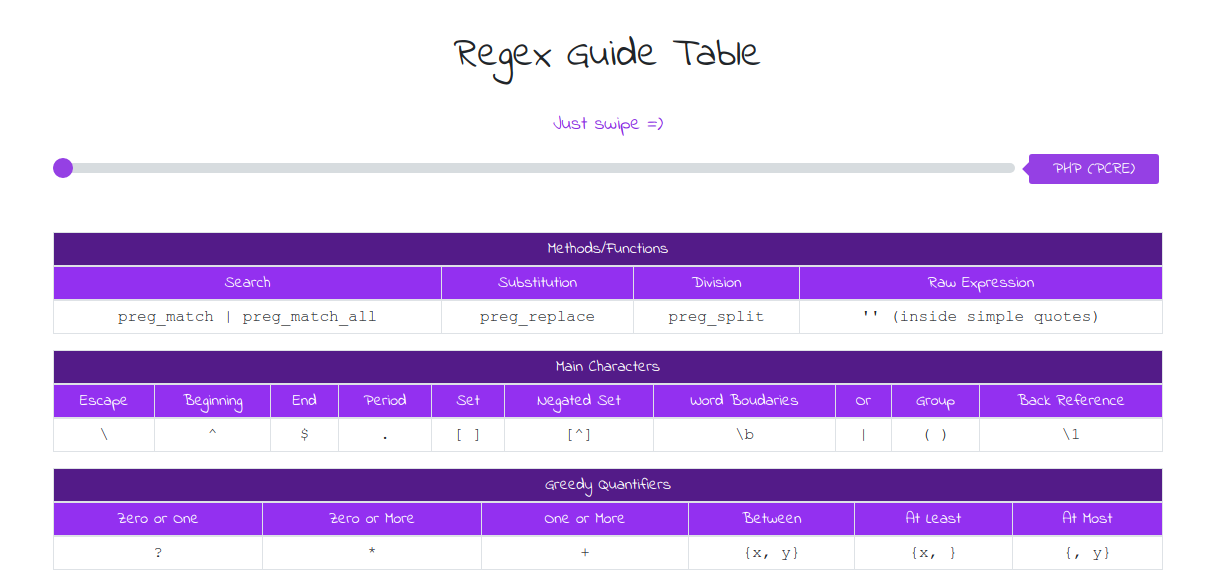
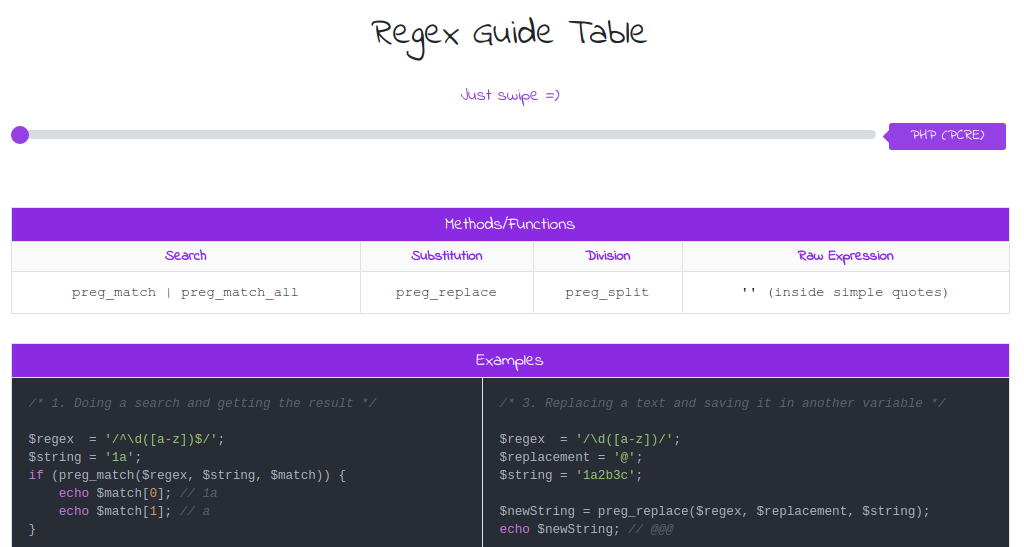
Add Examples

diff --git a/app/src/guide-table/assets/js/main.js b/app/src/guide-table/assets/js/main.js
@@ -3,59 +3,54 @@ const tableGreedy     = document.getElementById('table-greedy');
 const tableReluctant  = document.getElementById('table-reluctant');
 const tablePossessive = document.getElementById('table-possessive');
 const tableMethods    = document.getElementById('table-methods');
+const tableExamples   = document.getElementById('table-examples');
 
-const tables  = [tableMethods, tableMain, tableGreedy, tableReluctant, tablePossessive];
-
-const options = {
-    php: {
-        show: 'PHP (PCRE)',
-        main: ['\\', '^', '$', '.', '[ ]', '[^]', '\\b', '|', '( )', '\\1'],
-        greedy: ['?', '*', '+', '{x, y}', '{x, }', '{, y}'],
-        reluctant: ['??', '*?', '+?', '{x, y}?', '{x, }?', '{, y}?'],
-        possessive: ['?+', '*+', '++', '{x, y}+', '{x, }+', '{, y}+'],
-        methods: ['preg_match | preg_match_all', 'preg_replace', 'preg_split', '\'\' (inside simple quotes)', 'By Default'],
-    },
-    java: {
-        show: 'Java',
-        main: ['\\\\', '^', '$', '.', '[ ]', '[^]', '\\\\b', '|', '( )', '\\\\1'],
-        greedy: ['?', '*', '+', '{x, y}', '{x, }', '{, y}'],
-        reluctant: ['??', '*?', '+?', '{x, y}?', '{x, }?', '{, y}?'],
-        possessive: ['?+', '*+', '++', '{x, y}+', '{x, }+', '{, y}+'],
-        methods: ['Matcher.matches | Matcher.find', 'Matcher.replaceFirst | Matcher.replaceAll', 'Pattern.split', 'Doesn\'t have'],
-    },
-};
+const ajax = new Ajax('api/v1.php');
+ajax.success(function(response){
+    changeName(response);
+    changeTable(response);
+    slider.addEventListener('input', function() {
+        spanAnimator.zoom(1.2);
+        changeName(response);
+        changeTable(response);
+    });
+}).get('json');
 
 const slider       = document.getElementById('range-slider');
 const input        = slider.querySelector('input');
 const span         = slider.querySelector('span');
 const spanAnimator = new Animator(span, 300);
 
-changeName();
-changeTable();
-
-slider.addEventListener('input', function() {
-    spanAnimator.zoom(1.2);
-    changeName();
-    changeTable();
-});
-
-function changeName() {
+function changeName(options) {
     span.textContent = Object.values(options)[input.value - 1].show;
 }
 
-function changeTable() {
-    changeContentTable(tableMethods, 'methods');
-    changeContentTable(tableMain, 'main');
-    changeContentTable(tableGreedy, 'greedy');
-    changeContentTable(tableReluctant, 'reluctant');
-    changeContentTable(tablePossessive, 'possessive');
+function changeTable(options) {
+    changeContentTable(options, tableMethods, 'methods');
+    changeContentTable(options, tableExamples, 'examples');
+    changeContentTable(options, tableMain, 'main');
+    changeContentTable(options, tableGreedy, 'greedy');
+    changeContentTable(options, tableReluctant, 'reluctant');
+    changeContentTable(options, tablePossessive, 'possessive');
+    highlightCode();
 }
 
-function changeContentTable(table, propertyName) {
+function changeContentTable(options, table, propertyName) {
     fader = new Fader(0.5);
     table.style = '';
     fader.fade(table, 0, 100, true);
     table.querySelectorAll('td').forEach(function(td, i) {
-        td.textContent = Object.values(options)[input.value - 1][propertyName][i];
+        td.innerHTML = Object.values(options)[input.value - 1][propertyName][i];
+    });
+}
+
+setTimeout(function(){
+    highlightCode();
+}, 100);
+
+function highlightCode() {
+    document.querySelectorAll('code').forEach((block) => {
+        block.parentNode.parentNode.classList.add('code');
+        hljs.highlightBlock(block);
     });
 }

diff --git a/app/src/guide-table/assets/css/style.min.css b/app/src/guide-table/assets/css/style.min.css
@@ -1,1 +1,1 @@
-table{white-space:nowrap}table th{padding:.3rem!important}table thead{background-color:#8a2be2;color:#fff}table thead th{font-weight:400}table tbody{font-family:'Courier New',Courier,monospace!important}.t1{background-color:#531b88}.t2{background-color:#9330f0}.range-slider{margin:60px 0 0 0}.range-slider{width:100%}.range-slider__range{-moz-appearance:none;-webkit-appearance:none;appearance:none;width:calc(100% - (148px));height:10px;border-radius:5px;background:#d7dcdf;outline:0;padding:0;margin:0}.range-slider__range::-webkit-slider-thumb{-moz-appearance:none;-webkit-appearance:none;appearance:none;width:20px;height:20px;border-radius:50%;background:#9540e4;cursor:pointer;transition:background .15s ease-in-out}.range-slider__range::-webkit-slider-thumb:hover{background:#8a2be2}.range-slider__range:active::-webkit-slider-thumb{background:#8a2be2}.range-slider__range::-moz-range-thumb{width:20px;height:20px;border:0;border-radius:50%;background:#9540e4;cursor:pointer;transition:background .15s ease-in-out}.range-slider__range::-moz-range-thumb:hover{background:#8a2be2}.range-slider__range:active::-moz-range-thumb{background:#8a2be2}.range-slider__range:focus::-webkit-slider-thumb{box-shadow:0 0 0 3px #fff,0 0 0 6px #8a2be2}.range-slider__value{display:inline-block;position:relative;width:130px;color:#fff;line-height:20px;text-align:center;border-radius:3px;background:#9540e4;padding:5px 10px;margin-left:8px}.range-slider__value:after{position:absolute;top:8px;left:-7px;width:0;height:0;border-top:7px solid transparent;border-right:7px solid #9540e4;border-bottom:7px solid transparent;content:''}::-moz-range-track{background:#d7dcdf;border:0}input::-moz-focus-inner,input::-moz-focus-outer{border:0}
+table{white-space:nowrap}table th{padding:.3rem!important}table thead{background-color:#8a2be2;color:#fff}table thead th{font-weight:400}table tbody{font-family:'Courier New',Courier,monospace!important}.t1{background-color:#8a2be2;font-size:1.2em}.t2{background:#fafafa;font-weight:700;color:#8a2be2}.code{background-color:#282c34}.range-slider{margin:60px 0 0 0}.range-slider{width:100%}.range-slider__range{-moz-appearance:none;-webkit-appearance:none;appearance:none;width:calc(100% - (148px));height:10px;border-radius:5px;background:#d7dcdf;outline:0;padding:0;margin:0}.range-slider__range::-webkit-slider-thumb{-moz-appearance:none;-webkit-appearance:none;appearance:none;width:20px;height:20px;border-radius:50%;background:#9540e4;cursor:pointer;transition:background .15s ease-in-out}.range-slider__range::-webkit-slider-thumb:hover{background:#8a2be2}.range-slider__range:active::-webkit-slider-thumb{background:#8a2be2}.range-slider__range::-moz-range-thumb{width:20px;height:20px;border:0;border-radius:50%;background:#9540e4;cursor:pointer;transition:background .15s ease-in-out}.range-slider__range::-moz-range-thumb:hover{background:#8a2be2}.range-slider__range:active::-moz-range-thumb{background:#8a2be2}.range-slider__range:focus::-webkit-slider-thumb{box-shadow:0 0 0 3px #fff,0 0 0 6px #8a2be2}.range-slider__value{display:inline-block;position:relative;width:130px;color:#fff;line-height:20px;text-align:center;border-radius:3px;background:#9540e4;padding:5px 10px;margin-left:8px}.range-slider__value:after{position:absolute;top:8px;left:-7px;width:0;height:0;border-top:7px solid transparent;border-right:7px solid #9540e4;border-bottom:7px solid transparent;content:''}::-moz-range-track{background:#d7dcdf;border:0}input::-moz-focus-inner,input::-moz-focus-outer{border:0}

diff --git a/app/src/guide-table/assets/js/main.min.js b/app/src/guide-table/assets/js/main.min.js
@@ -1,1 +1,1 @@
-const tableMain=document.getElementById("table-main"),tableGreedy=document.getElementById("table-greedy"),tableReluctant=document.getElementById("table-reluctant"),tablePossessive=document.getElementById("table-possessive"),tableMethods=document.getElementById("table-methods"),tables=[tableMethods,tableMain,tableGreedy,tableReluctant,tablePossessive],options={php:{show:"PHP (PCRE)",main:["\\","^","$",".","[ ]","[^]","\\b","|","( )","\\1"],greedy:["?","*","+","{x, y}","{x, }","{, y}"],reluctant:["??","*?","+?","{x, y}?","{x, }?","{, y}?"],possessive:["?+","*+","++","{x, y}+","{x, }+","{, y}+"],methods:["preg_match | preg_match_all","preg_replace","preg_split","'' (inside simple quotes)","By Default"]},java:{show:"Java",main:["\\\\","^","$",".","[ ]","[^]","\\\\b","|","( )","\\\\1"],greedy:["?","*","+","{x, y}","{x, }","{, y}"],reluctant:["??","*?","+?","{x, y}?","{x, }?","{, y}?"],possessive:["?+","*+","++","{x, y}+","{x, }+","{, y}+"],methods:["Matcher.matches | Matcher.find","Matcher.replaceFirst | Matcher.replaceAll","Pattern.split","Doesn't have"]}},slider=document.getElementById("range-slider"),input=slider.querySelector("input"),span=slider.querySelector("span"),spanAnimator=new Animator(span,300);function changeName(){span.textContent=Object.values(options)[input.value-1].show}function changeTable(){changeContentTable(tableMethods,"methods"),changeContentTable(tableMain,"main"),changeContentTable(tableGreedy,"greedy"),changeContentTable(tableReluctant,"reluctant"),changeContentTable(tablePossessive,"possessive")}function changeContentTable(table,propertyName){fader=new Fader(.5),table.style="",fader.fade(table,0,100,!0),table.querySelectorAll("td").forEach(function(td,i){td.textContent=Object.values(options)[input.value-1][propertyName][i]})}changeName(),changeTable(),slider.addEventListener("input",function(){spanAnimator.zoom(1.2),changeName(),changeTable()});
+const tableMain=document.getElementById("table-main"),tableGreedy=document.getElementById("table-greedy"),tableReluctant=document.getElementById("table-reluctant"),tablePossessive=document.getElementById("table-possessive"),tableMethods=document.getElementById("table-methods"),tableExamples=document.getElementById("table-examples"),ajax=new Ajax("api/v1.php");ajax.success(function(response){changeName(response),changeTable(response),slider.addEventListener("input",function(){spanAnimator.zoom(1.2),changeName(response),changeTable(response)})}).get("json");const slider=document.getElementById("range-slider"),input=slider.querySelector("input"),span=slider.querySelector("span"),spanAnimator=new Animator(span,300);function changeName(options){span.textContent=Object.values(options)[input.value-1].show}function changeTable(options){changeContentTable(options,tableMethods,"methods"),changeContentTable(options,tableExamples,"examples"),changeContentTable(options,tableMain,"main"),changeContentTable(options,tableGreedy,"greedy"),changeContentTable(options,tableReluctant,"reluctant"),changeContentTable(options,tablePossessive,"possessive"),highlightCode()}function changeContentTable(options,table,propertyName){fader=new Fader(.5),table.style="",fader.fade(table,0,100,!0),table.querySelectorAll("td").forEach(function(td,i){td.innerHTML=Object.values(options)[input.value-1][propertyName][i]})}function highlightCode(){document.querySelectorAll("code").forEach(block=>{block.parentNode.parentNode.classList.add("code"),hljs.highlightBlock(block)})}setTimeout(function(){highlightCode()},100);

diff --git a/app/src/guide-table/index.html b/app/src/guide-table/index.html
@@ -6,6 +6,7 @@
   <meta http-equiv="X-UA-Compatible" content="ie=edge">
   <link rel="stylesheet" href="https://stackpath.bootstrapcdn.com/bootstrap/4.3.1/css/bootstrap.min.css" integrity="sha384-ggOyR0iXCbMQv3Xipma34MD+dH/1fQ784/j6cY/iJTQUOhcWr7x9JvoRxT2MZw1T" crossorigin="anonymous">
   <link rel="stylesheet" href="https://use.fontawesome.com/releases/v5.7.2/css/all.css" integrity="sha384-fnmOCqbTlWIlj8LyTjo7mOUStjsKC4pOpQbqyi7RrhN7udi9RwhKkMHpvLbHG9Sr" crossorigin="anonymous">
+  <link rel="stylesheet" href="https://cdnjs.cloudflare.com/ajax/libs/highlight.js/9.15.6/styles/atom-one-dark.min.css">
   <link rel="stylesheet" href="../assets/css/main-style.min.css">
   <link rel="stylesheet" href="assets/css/style.min.css">
   <title>RegexLab</title>
@@ -42,6 +43,22 @@
                     <td></td>
                     <td></td>
                     <td></td>
+                </tr>
+            </tbody>
+        </table>
+    </div>
+
+    <div class="table-responsive">
+        <table id="table-examples" class="table table-bordered my-3 p-0">
+            <thead>
+                <tr>
+                    <th class="t1 text-center" colspan="2">Examples</th>
+                </tr>
+            </thead>
+            <tbody>
+                <tr>
+                    <td width="50%"></td>
+                    <td width="50%"></td>
                 </tr>
             </tbody>
         </table>
@@ -172,7 +189,9 @@
     <h2>You may test your regex at: <a href="https://regex101.com/" target="_blank">Regex101</a></h2>
   </div>
 
+  <script src="https://cdnjs.cloudflare.com/ajax/libs/highlight.js/9.15.6/highlight.min.js"></script>
   <script type="text/javascript" src="../assets/js/classes/Animator.min.js"></script>
+  <script type="text/javascript" src="../assets/js/classes/Ajax.min.js"></script>
   <script type="text/javascript" src="../assets/js/classes/EventManager.min.js"></script>
   <script type="text/javascript" src="../assets/js/classes/Fader.min.js"></script>
   <script type="text/javascript" src="../assets/js/main.min.js"></script>

diff --git a/app/src/guide-table/assets/css/style.css b/app/src/guide-table/assets/css/style.css
@@ -24,11 +24,18 @@ table tbody {
 }
 
 .t1 {
-  background-color: rgb(83, 27, 136);
+  background-color: blueviolet;
+  font-size: 1.2em;
 }
 
 .t2 {
-  background-color: rgb(147, 48, 240);
+  background: rgb(250, 250, 250);
+  font-weight: bold;
+  color: #8A2BE2;
+}
+
+.code {
+  background-color: #282c34;
 }
 
 .range-slider {

diff --git a/app/src/guide-table/api/v1.php b/app/src/guide-table/api/v1.php
@@ -1,0 +1,33 @@
+<?php
+
+$langs = [
+    'php' => [
+        'show' => "PHP (PCRE)",
+        'main' => ["\\", "^", "$", ".", "[ ]", "[^]", "\\b", "|", "( )", "\\1"],
+        'greedy' => ["?", "*", "+", "{x, y}", "{x, }", "{, y}"],
+        'reluctant' => ["??", "*?", "+?", "{x, y}?", "{x, }?", "{, y}?"],
+        'possessive' => ["?+", "*+", "++", "{x, y}+", "{x, }+", "{, y}+"],
+        'methods' => ["preg_match | preg_match_all", "preg_replace", "preg_split", "'' (inside simple quotes)", "By Default"]
+    ],
+    'java' => [
+        'show' => "Java",
+        'main' => ["\\\\", "^", "$", ".", "[ ]", "[^]", "\\\\b", "|", "( )", "\\\\1"],
+        'greedy' => ["?", "*", "+", "{x, y}", "{x, }", "{, y}"],
+        'reluctant' => ["??", "*?", "+?", "{x, y}?", "{x, }?", "{, y}?"],
+        'possessive' => ["?+", "*+", "++", "{x, y}+", "{x, }+", "{, y}+"],
+        'methods' => ["Matcher.matches | Matcher.find", "Matcher.replaceFirst | Matcher.replaceAll", "Pattern.split", "Doesn't have"]
+    ]
+
+];
+
+function getCode($lang, $dir) {
+   return '<pre><code class="'.$lang.'">'.file_get_contents($dir).'</code></pre>';
+}
+
+$langs['php']['examples'][]  = getCode('php', 'code/php/example1.php');
+$langs['php']['examples'][]  = getCode('php', 'code/php/example2.php');
+
+$langs['java']['examples'][] = getCode('java', 'code/java/example1.java');
+$langs['java']['examples'][] = getCode('java', 'code/java/example2.java');
+
+echo json_encode($langs); exit;

diff --git a/app/src/guide-table/api/code/java/example1.java b/app/src/guide-table/api/code/java/example1.java
@@ -1,0 +1,48 @@
+import java.util.regex.Matcher;
+import java.util.regex.Pattern;
+
+public class Main {
+  public static void main(String[] args) {
+      
+    /* 1. Doing just a check using the simplest method */
+    
+    String string = "1a";
+
+    if (string.matches("^\\d([a-z])$")) {
+        // Do something
+    }
+
+    /* 2. Doing a search and getting the result */
+    
+    String regex  = "^\\d([a-z])$";
+    String string = "1a";
+
+    Pattern p = Pattern.compile(regex);
+    Matcher m = p.matcher(string);
+    
+    if (m.matches()) {
+        System.out.println(m.group()); // 1a
+        System.out.println(m.group(1)); // a
+    }
+
+    /* 3. Doing a global search and getting the results */
+    
+    String regex  = "\\d([a-z])";
+    String string = "1a2b3c";
+
+    Pattern p = Pattern.compile(regex);
+    Matcher m = p.matcher(string);
+    
+    while (m.find()) {
+        System.out.print("Match: " + m.group() + " ");
+        System.out.print("Group: " + m.group(1) + "\n");
+    }
+
+    /*
+        Output:
+        Match: 1a Group: a
+        Match: 2b Group: b
+        Match: 3c Group: c
+    */
+  }
+}

diff --git a/app/src/guide-table/api/code/java/example2.java b/app/src/guide-table/api/code/java/example2.java
@@ -1,0 +1,44 @@
+import java.util.regex.Matcher;
+import java.util.regex.Pattern;
+
+public class Main {
+  public static void main(String[] args) {
+    
+    /* 4. Replacing only the first occurrence */
+        
+    String regex  = "\\d([a-z])";
+    String replacement = "@";
+    String string = "1a2b3c";
+
+    Pattern p = Pattern.compile(regex);
+    Matcher m = p.matcher(string);
+    
+    String newString = m.replaceFirst(replacement);
+    System.out.println(newString); // @2b3c
+
+    /* 5. Replacing all occurrences */
+        
+    String regex  = "\\d([a-z])";
+    String replacement = "@";
+    String string = "1a2b3c";
+
+    Pattern p = Pattern.compile(regex);
+    Matcher m = p.matcher(string);
+    
+    String newString = m.replaceAll(replacement);
+    System.out.println(newString); // @@@
+
+    /* 6. Splitting a string into an array */
+
+    String regex  = "\\d";
+    String string = "1a2b3c";
+
+    Pattern p = Pattern.compile(regex);
+    
+    String[] arrayString = p.split(string);
+    
+    for (String s : arrayString) {
+        System.out.print(s + " "); // a b c
+    }
+  }
+}

diff --git a/app/src/guide-table/api/code/php/example1.php b/app/src/guide-table/api/code/php/example1.php
@@ -1,0 +1,33 @@
+/* 1. Doing a search and getting the result */
+
+$regex  = '/^\d([a-z])$/';
+$string = '1a';
+if (preg_match($regex, $string, $match)) {
+    echo $match[0]; // 1a
+    echo $match[1]; // a
+}
+
+/* 2. Doing a global search and getting the results */
+
+$regex  = '/\d([a-z])/';
+$string = '1a2b3c';
+if (preg_match_all($regex, $string, $match)) {
+   print_r($match);
+
+   /*
+        Array (
+            [0] => Array
+                (
+                    [0] => 1a
+                    [1] => 2b
+                    [2] => 3c
+                )
+            [1] => Array
+                (
+                    [0] => a
+                    [1] => b
+                    [2] => c
+                )
+        )
+    */
+}

diff --git a/app/src/guide-table/api/code/php/example2.php b/app/src/guide-table/api/code/php/example2.php
@@ -1,0 +1,29 @@
+/* 3. Replacing a text and saving it in another variable */
+
+$regex  = '/\d([a-z])/';
+$replacement = '@';
+$string = '1a2b3c';
+
+$newString = preg_replace($regex, $replacement, $string);
+echo $newString; // @@@
+
+/* 4. The same but this time adding a limit */
+
+$limit = 1;
+$newString = preg_replace($regex, $replacement, $string, $limit);
+echo $newString; // @2b3c
+
+/* 5. Splitting a string into an array */
+
+$regex = '/\d/';
+$array = preg_split($regex, $string);
+print_r($array);
+
+/*
+    Array (
+        [0] => 
+        [1] => a
+        [2] => b
+        [3] => c
+    )
+*/
